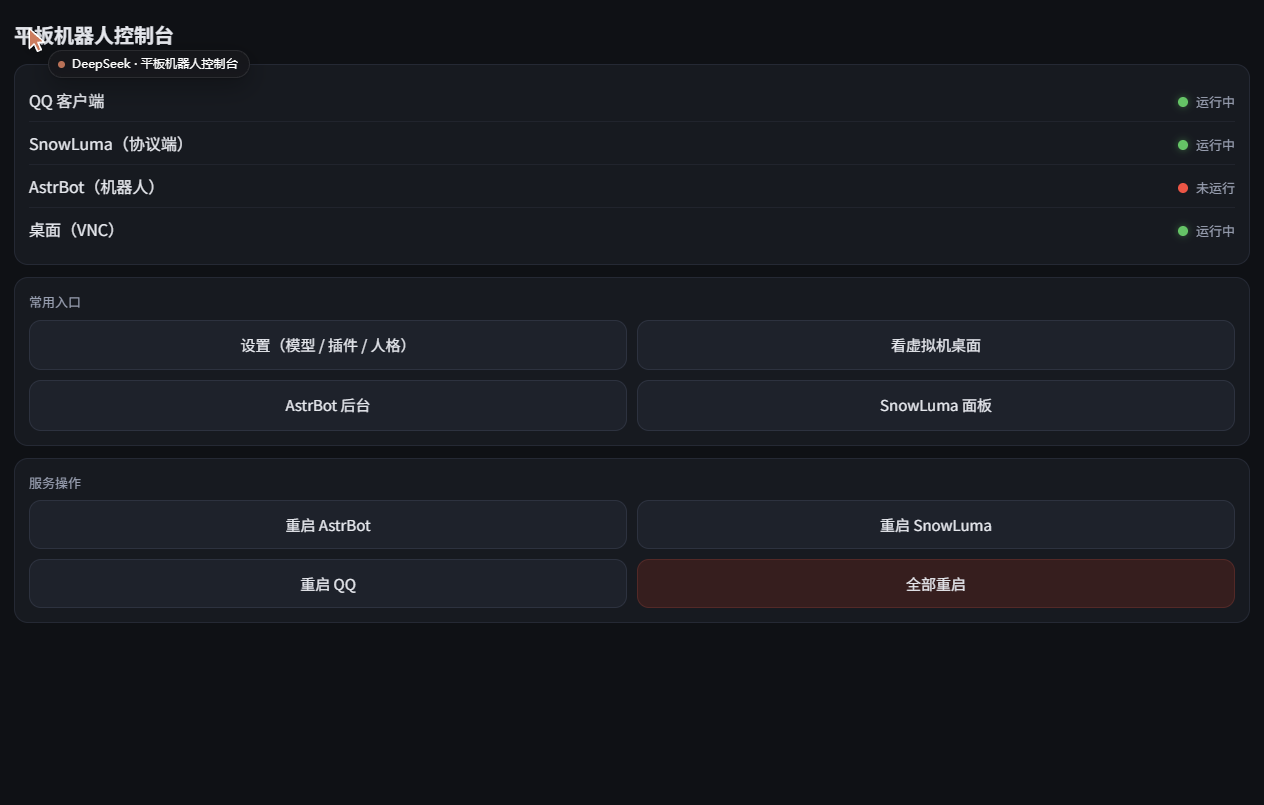
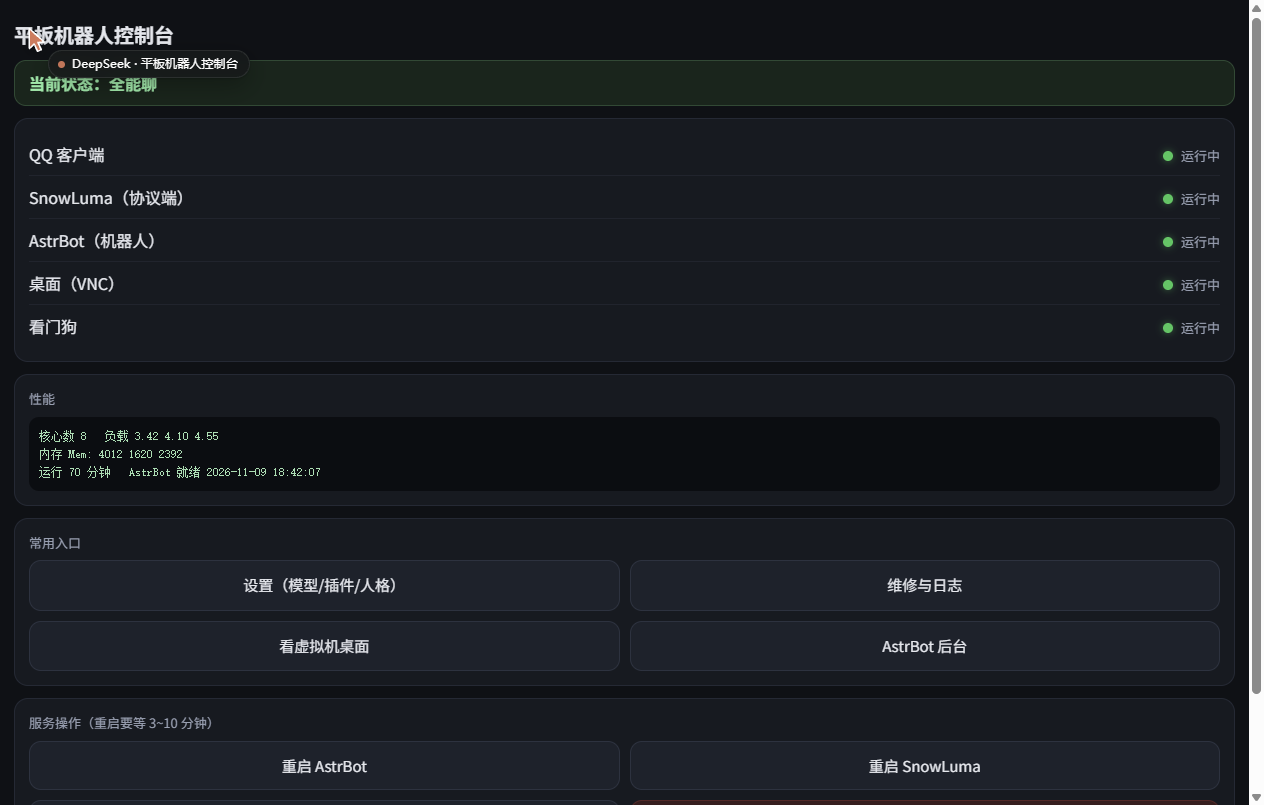
docs: v3 控制台界面预览截图（首页/设置/维修页）+ tools/panel_preview.py 离线预览

diff --git a/README.md b/README.md
@@ -88,17 +88,16 @@ flowchart TB
 
 ## 截图
 
-真机截图（已脱敏：QQ 昵称 / 群名 / 好友名打码）。拍的顺序就是真实顺序：**先看 VM 桌面里 QQ 登录没有，再看控制台看四个服务，最后看设置页改配置**。
+| 虚机桌面：Linux QQ 已登录 | 8080 控制台首页（v3） | 8080 设置页（v3） | 8080 维修页（v3） |
+|---|---|---|---|
+| ![虚机桌面](docs/screenshots/01-vm-desktop.png) | ![控制台首页](docs/screenshots/02-console.png) | ![设置页](docs/screenshots/03-settings.png) | ![维修页](docs/screenshots/04-repair.png) |
 
-| 虚机桌面：Linux QQ 已登录 | 8080 控制台首页 | 8080 设置页 |
-|---|---|---|
-| ![虚机桌面](docs/screenshots/01-vm-desktop.png) | ![控制台首页](docs/screenshots/02-console.png) | ![设置页](docs/screenshots/03-settings.png) |
+- **01** `01-vm-desktop.png`（1280×800，**平板真机截图**）：Xvfb `:99` 的虚机桌面，Linux QQ 已登录、会话列表可见（昵称/群名/好友名已打码）——证明「扫码登录 + SnowLuma 注入」这两段通了。
+- **02** `02-console.png`（v3 预览渲染）：控制台首页——顶部**体检卡**一句话给结论（全能聊 / 部分可用 / 未就绪）、5 行状态灯（QQ / SnowLuma / AstrBot / 桌面 VNC / 看门狗）、性能卡（核数 / 负载 / 内存 / 运行时长 / AstrBot 就绪时刻）、常用入口与服务操作。
+- **03** `03-settings.png`（v3 预览渲染）：设置页——模型开关（`ben/deepseek-v4.1-flash` 开、`vyceai/deepseek-v4.1` 关）、插件开关、人格编辑、唤醒前缀。**改完即时生效**（模型切换需重启 AstrBot），全程不碰命令行。
+- **04** `04-repair.png`（v3 预览渲染）：维修页——一键修复（后台跑 `quick.sh`）+ 四类日志（AstrBot / SnowLuma / 看门狗 / 开机启动），出问题先点这个。
 
-- **01**（`docs/screenshots/01-vm-desktop.png`，1280×800）：Xvfb `:99` 的虚机桌面，QQ 主面板已登录、会话列表可见（已打码）——说明「登录 + 注入」这两段通了。
-- **02**（`docs/screenshots/02-console.png`）：8080 控制台首页：四个状态灯（QQ / SnowLuma / AstrBot / 桌面 VNC）、常用入口、服务操作按钮。**这张拍的是 v2 界面**：当时 AstrBot 显示「未运行」，且还没有 v3 的体检卡 / 性能快照 / 维修页（`panel_v3.py` 已实现，**截图待重拍**）。
-- **03**（`docs/screenshots/03-settings.png`）：设置页的模型开关（`ben/deepseek-v4.1-flash` 开、`vyceai/deepseek-v4.1` 关）与插件开关列表，改完即时生效（模型切换后需重启 AstrBot），不用碰命令行。
-
-> ⚠ 诚实说明：**02 / 03 两张是 v2 控制台界面**（`panel_v3.py` 已实现体检卡 / 性能快照 / 维修页，但**尚无对应截图**，待补拍）。补拍后请同步 [docs/testing.md](docs/testing.md) 与 [docs/screenshots/README.md](docs/screenshots/README.md)。
+> 诚实说明：01 是真机截图；02/03/04 是用 `tools/panel_preview.py`（固定示例数据）在 PC 上渲染的 v3 界面，**界面就是实际代码**，只是背后没有真虚机。平板回来后建议用真机同路径覆盖。
 
 更多截图规范与脱敏清单见 [docs/screenshots/README.md](docs/screenshots/README.md)。
 
@@ -319,7 +318,8 @@ hish-qqbot/
 │   ├── hm.py                  # hdc 控制脚本（截屏/点击/装应用/端口转发）
 │   ├── pc_bootstrap.py        # 一条命令：起 PC 侧服务 → 查 hdc → 下发 quick.sh → 截图
 │   ├── logsvr.py              # 8081 收 VM 回传的日志/截图（调试用）
-│   └── fwd8789.py             # 8789 把 PC 上的模型网关转发给平板（可选，见「模型对接」）
+│   ├── fwd8789.py             # 8789 把 PC 上的模型网关转发给平板（可选，见「模型对接」）
+│   └── panel_preview.py       # 离线预览控制台界面（假数据，改 HTML 时用）
 └── tests/                     # 验收脚本（复制到虚机里跑）
     ├── healthcheck.sh         # 11 项体检，全绿才算健康
     ├── bench.sh               # 冷启动 / 回复耗时基准

diff --git a/docs/screenshots/README.md b/docs/screenshots/README.md
@@ -1,6 +1,6 @@
 # 截图目录
 
-这里放工程的实际运行截图。**已就位 3 张**（`01-vm-desktop.png`、`02-console.png`、`03-settings.png`，均已完成脱敏：QQ 昵称 / 群名 / 好友名打码），其余按下表继续补。
+这里放工程的实际运行截图。**已就位 4 张**（`01-vm-desktop.png`、`02-console.png`、`03-settings.png`、`04-repair.png`；01 是平板真机截图并已脱敏，02/03/04 是 v3 控制台的离线渲染预览——数据为示例，界面是实际代码），其余按下表继续补。
 文件名规范：`NN-英文短名.png`，两位序号 + 连字符 + 小写英文短名，全小写，扩展名 `.png`。
 序号决定 docs 里的展示顺序，不要随意改名——[testing.md](../testing.md) 和 README 都按这套名字引用。
 
@@ -11,14 +11,15 @@
 | 序号 | 文件名 | 状态 | 拍什么 | 关键要素（少了这张图就没意义） | 关联测试 |
 |---|---|---|---|---|---|
 | 01 | `01-vm-desktop.png` | ✅ 已就位 | 虚机桌面（Xvfb `:99`，1280×800） | Linux QQ 已登录、群列表可见；昵称 / 群名 / 好友名已打码 | T06、T09、T16 |
-| 02 | `02-console.png` | ✅ 已就位（**v2 界面**） | 控制台首页 `http://127.0.0.1:8080/` | 四个状态灯（QQ / SnowLuma / AstrBot / 桌面 VNC）+ 常用入口 + 服务操作；**注意：v3 的体检卡 / 性能快照 / 维修页还没截图，待重拍** | T13 |
-| 03 | `03-settings.png` | ✅ 已就位 | 设置页 `http://127.0.0.1:8080/settings` | 模型开关（`ben/deepseek-v4.1-flash` 开、`vyceai/deepseek-v4.1` 关）+ 插件开关列表 | T13、T25 |
-| 04 | `04-astrbot.png` | ⛔ 待补 | AstrBot 后台 `http://127.0.0.1:6185/` | 登录后的首页（能看到版本/运行状态）；**遮蔽账号名** | T11 |
-| 05 | `05-group-reply.png` | ⛔ 待补 | 测试群里 @ 机器人并收到回复 | 同一条聊天记录里同时出现「@机器人 的提问」和「机器人的回复」，时间戳相邻 | T14 |
-| 06 | `06-boot-log.png`（可选） | ⛔ 待补 | `tail -20 /root/boot.log` 的输出 | 5 行 `OK` + `BOOT_DONE` | T15 |
-| 07 | `07-hish-vm.png`（可选） | ⛔ 待补 | HiSH 模拟器管理页 | CPU / 内存配置项（建议 4 核 / 4096 MB），证明资源调过 | T01 |
+| 02 | `02-console.png` | ✅ 已就位（v3 预览渲染） | 控制台首页 `http://127.0.0.1:8080/` | 顶部体检卡（全能聊/部分可用/未就绪）+ 5 行状态灯（QQ / SnowLuma / AstrBot / 桌面 VNC / 看门狗）+ 性能卡 + 常用入口 + 服务操作 | T13 |
+| 03 | `03-settings.png` | ✅ 已就位（v3 预览渲染） | 设置页 `http://127.0.0.1:8080/settings` | 模型开关（`ben/deepseek-v4.1-flash` 开、`vyceai/deepseek-v4.1` 关）+ 插件开关列表 + 人格编辑 | T13、T25 |
+| 04 | `04-repair.png` | ✅ 已就位（v3 预览渲染） | 维修页 `http://127.0.0.1:8080/quick` | 一键修复按钮 + 日志查看按钮组（AstrBot / SnowLuma / 看门狗 / 开机启动） | T13、T21、T22 |
+| 05 | `05-astrbot.png` | ⛔ 待补 | AstrBot 后台 `http://127.0.0.1:6185/` | 登录后的首页（能看到版本/运行状态）；**遮蔽账号名** | T11 |
+| 06 | `06-group-reply.png` | ⛔ 待补 | 测试群里 @ 机器人并收到回复 | 同一条聊天记录里同时出现「@机器人 的提问」和「机器人的回复」，时间戳相邻 | T14 |
+| 07 | `07-boot-log.png`（可选） | ⛔ 待补 | `tail -20 /root/boot.log` 的输出 | 5 行 `OK` + `BOOT_DONE` | T15 |
+| 08 | `08-hish-vm.png`（可选） | ⛔ 待补 | HiSH 模拟器管理页 | CPU / 内存配置项（建议 4 核 / 4096 MB），证明资源调过 | T01 |
 
-必补 04、05；06/07 有则更好。**改名要同步改 [testing.md](../testing.md) 与 README，别只改文件。**
+必补 05、06；07/08 有则更好。02/03/04 现在是离线渲染预览，平板回来后建议换成真机截图（同一路径直接覆盖）。**改名要同步改 [testing.md](../testing.md) 与 README，别只改文件。**
 
 ---
 
